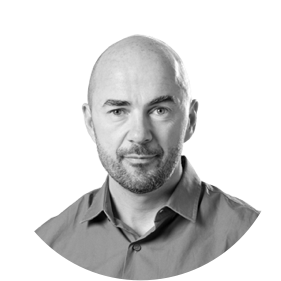
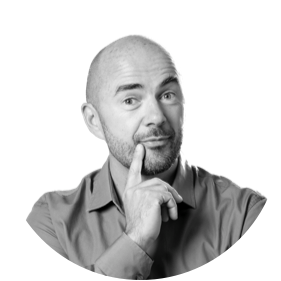
tweaks to football weekly

Changed region(s): [[0.0854, 0.1139, 0.968, 1.0], [0.427, 0.1139, 0.484, 0.1423]]

diff --git a/embeds/football-weekly-august/style.scss b/embeds/football-weekly-august/style.scss
@@ -18,7 +18,7 @@ $c-background: #333;
 	width: 100%;
 }
 
-section#football-weekly-august.fc-container--thrasher {
+section#football-weekly.fc-container--thrasher {
   background-color: #333;
   .fc-container__inner{
     overflow: visible;
@@ -37,7 +37,7 @@ section#football-weekly-august.fc-container--thrasher {
 }
 
 
-section#football-weekly-august a.fc-trail__count.fc-trail__count--commentcount {
+section#football-weekly a.fc-trail__count.fc-trail__count--commentcount {
   display: none !important;
 }
 
@@ -62,9 +62,9 @@ section#football-weekly-august a.fc-trail__count.fc-trail__count--commentcount {
   }
 
   .figure img {
-    width: 260px;
+    width: 210px;
     position: absolute;
-    bottom: -105px;
+    bottom: -80px;
     right: 22%;
     z-index: 99999;
   }
